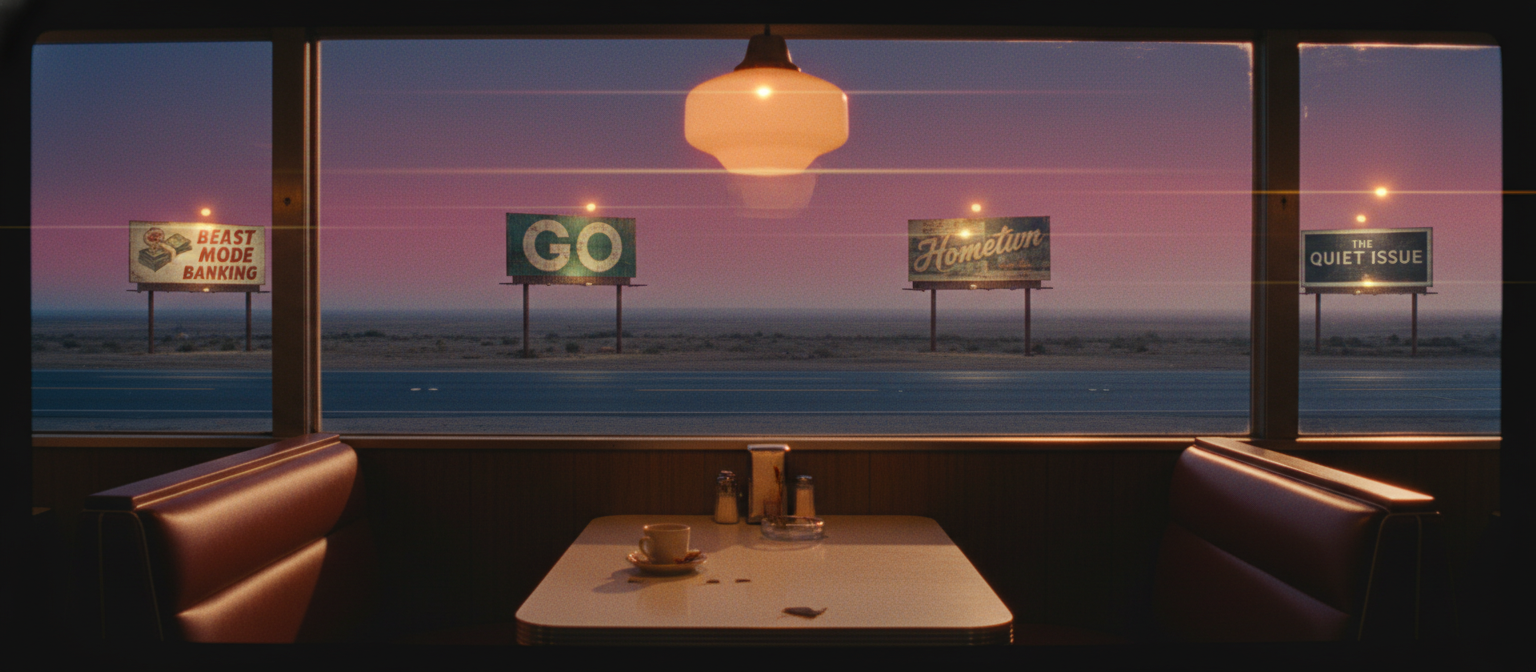
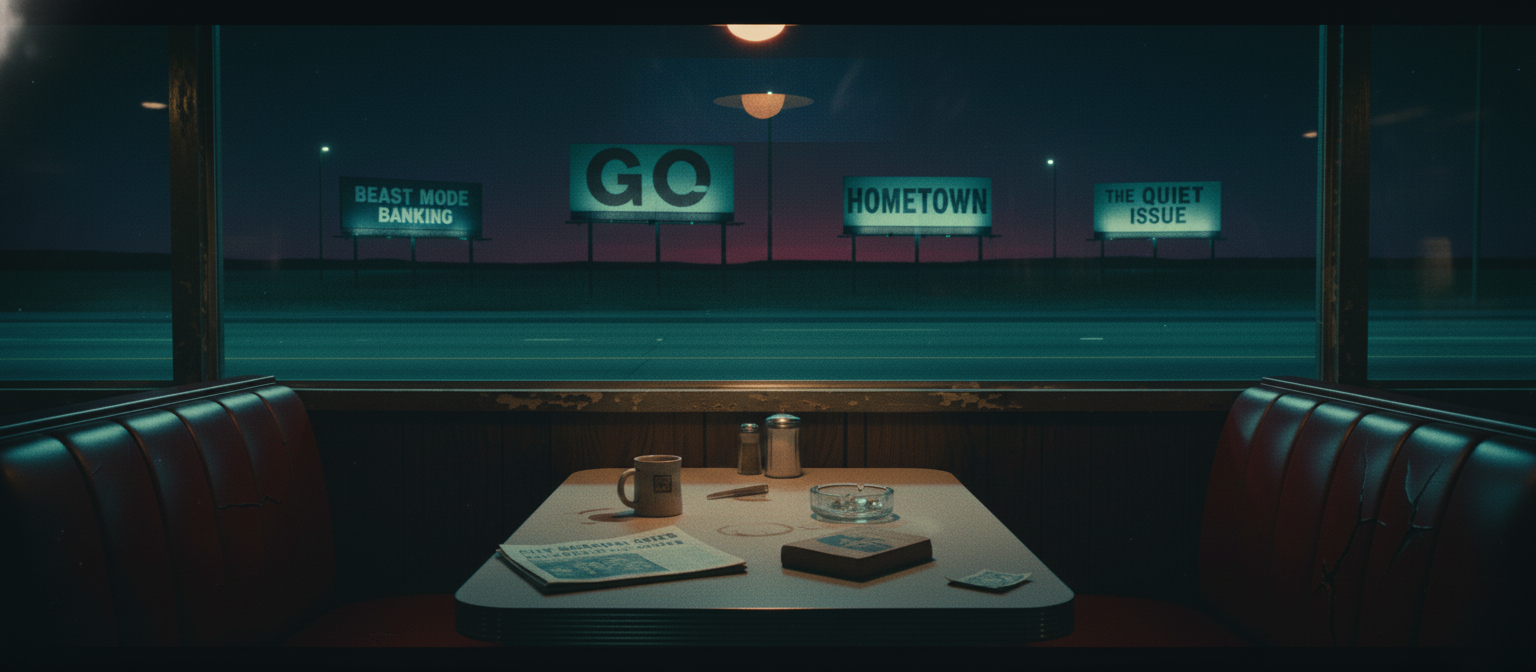
Ship: layer1 EXT + INT (research-driven local contrast) + film-strip edges.
Locked assets via dispatch_visual_edit.py pipeline + PIL pixel-level layer 1.

LANDING: ext_layer1_work_contrast — v25_v12c base (Commander's heart pick,
head-on intimate framing, biggest WORK letters, HEARSAY composited above
magenta door). Layer 1: PIL local-contrast boost on lime green WORK region
(+22% brightness, +30% saturation, +18% contrast with soft radial falloff).
Itti/Koch/Niebur 1998 saliency — primary navigation element gets local
contrast hierarchy.

/WORK: int_layer1_go_contrast — v19a base (closer-zoom booth, table props
foreground, Mueller-refined grade, range-compressed noir). Layer 1: PIL
local-contrast boost on GO billboard region (+20%/+25%/+15%). GO becomes
unambiguous visual primary among the four case-study billboards.

Hotspot coords retuned for both compositions.

NEW: film-strip edge tracking lines (R-K 26 cinematic pattern) — two thin
warm-cream vertical accent lines at viewport edges, 1px wide, fixed positioning,
gradient opacity 0.10-0.12. Implies the page is a frame from a longer film,
continuity across all routes.

PRESERVED: Veo 3.1 ambient motion loop on landing hero, View Transitions
API letterbox close-and-hold (40-60% pure black scene-change), shared-element
morph billboard -> case study (view-transition-name), entry zoom + sign
pulse sequence, diegetic affordance (sign glow on hover, no tooltips),
FilmFrame screenplay-credit metadata bars, 21:9 widescreen aspect,
[…]

diff --git a/src/styles/global.css b/src/styles/global.css
@@ -193,3 +193,65 @@ html, body {
     animation-duration: 200ms;
   }
 }
+
+
+/* ============================================================ */
+/* Film-strip edge tracking lines — R-K '26 cinematic pattern  */
+/* Two persistent vertical accent lines at viewport edges,     */
+/* implying the page is a frame from a longer film.            */
+/* ============================================================ */
+.film-edges {
+  position: fixed;
+  inset: 0;
+  pointer-events: none;
+  z-index: 100;
+}
+.film-edges::before,
+.film-edges::after {
+  content: "";
+  position: fixed;
+  top: 0;
+  bottom: 0;
+  width: 1px;
+  background: linear-gradient(
+    to bottom,
+    transparent 0%,
+    rgba(200, 180, 150, 0.10) 8%,
+    rgba(200, 180, 150, 0.12) 50%,
+    rgba(200, 180, 150, 0.10) 92%,
+    transparent 100%
+  );
+  pointer-events: none;
+}
+.film-edges::before { left: 14px; }
+.film-edges::after  { right: 14px; }
+
+@media (max-width: 768px) {
+  .film-edges::before { left: 6px; }
+  .film-edges::after  { right: 6px; }
+}
+
+@media (prefers-reduced-motion: reduce) {
+  /* Edges stay — they're not motion, they're frame */
+}
+
+
+/* Film-strip edge tracking lines — R-K '26 cinematic pattern */
+.film-edges { position: fixed; inset: 0; pointer-events: none; z-index: 100; }
+.film-edges::before,
+.film-edges::after {
+  content: ""; position: fixed; top: 0; bottom: 0; width: 1px;
+  background: linear-gradient(to bottom,
+    transparent 0%,
+    rgba(200, 180, 150, 0.10) 8%,
+    rgba(200, 180, 150, 0.12) 50%,
+    rgba(200, 180, 150, 0.10) 92%,
+    transparent 100%);
+  pointer-events: none;
+}
+.film-edges::before { left: 14px; }
+.film-edges::after  { right: 14px; }
+@media (max-width: 768px) {
+  .film-edges::before { left: 6px; }
+  .film-edges::after  { right: 6px; }
+}